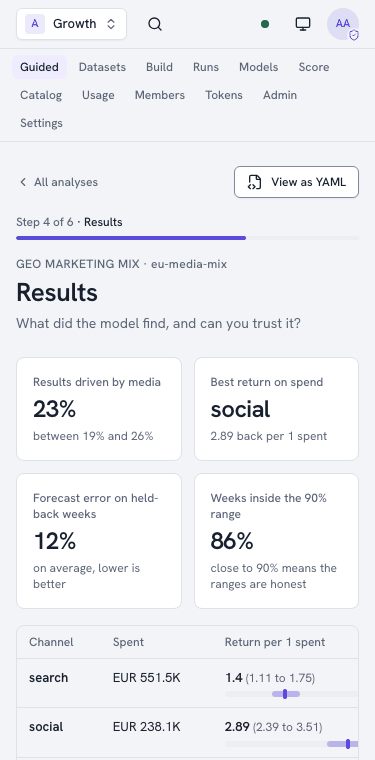
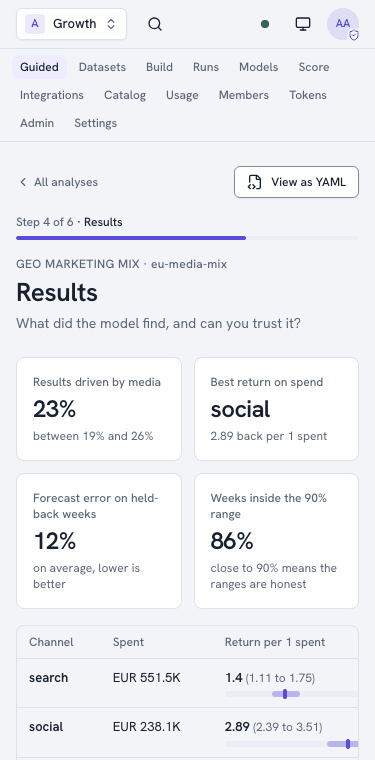
docs: recapture the Guided data, beliefs and phone screenshots
Channels now start without a belief and detected frequencies read in words;
the beliefs screenshot scrolls the prior KPI fan into view so its lazily
loaded frame is drawn. The Expert-edit smoke test edits the fit's draws
whatever the template's default.

Changed region(s): [[0.0587, 0.1211, 0.528, 0.1816], [0.5573, 0.1211, 0.88, 0.1513]]

diff --git a/apps/web/e2e/guided-screenshots.spec.ts b/apps/web/e2e/guided-screenshots.spec.ts
@@ -63,6 +63,8 @@ test("guided tutorial screenshots", async ({ page }) => {
   await exp.getByLabel("± uncertainty (standard error)").fill("25000");
   await page.getByRole("button", { name: "Preview what this means" }).click();
   await expect(page.getByRole("heading", { name: "What your beliefs mean, before seeing the data" })).toBeVisible({ timeout: 10_000 });
+  // plot frames load as they scroll into view: bring the KPI fan in before the full-page shot
+  await page.locator('iframe[title="Results the model expects before fitting"]').scrollIntoViewIfNeeded();
   await frames(page);
   await shot(page, "priors");
 

diff --git a/apps/web/e2e/guided.spec.ts b/apps/web/e2e/guided.spec.ts
@@ -194,7 +194,7 @@ test("Edit in Expert switches mode and the edit shows up as advanced settings", 
       method: "POST",
       headers,
       credentials: "include",
-      body: JSON.stringify({ yaml: rev.yaml.replace(/draws: 500/, "draws: 2000"), parent_revision: 1, message: "more draws" }),
+      body: JSON.stringify({ yaml: rev.yaml.replace(/(?<!ui_)draws: \d+/, "draws: 2000"), parent_revision: 1, message: "more draws" }),
     });
     return res.status;
   }, specId);
